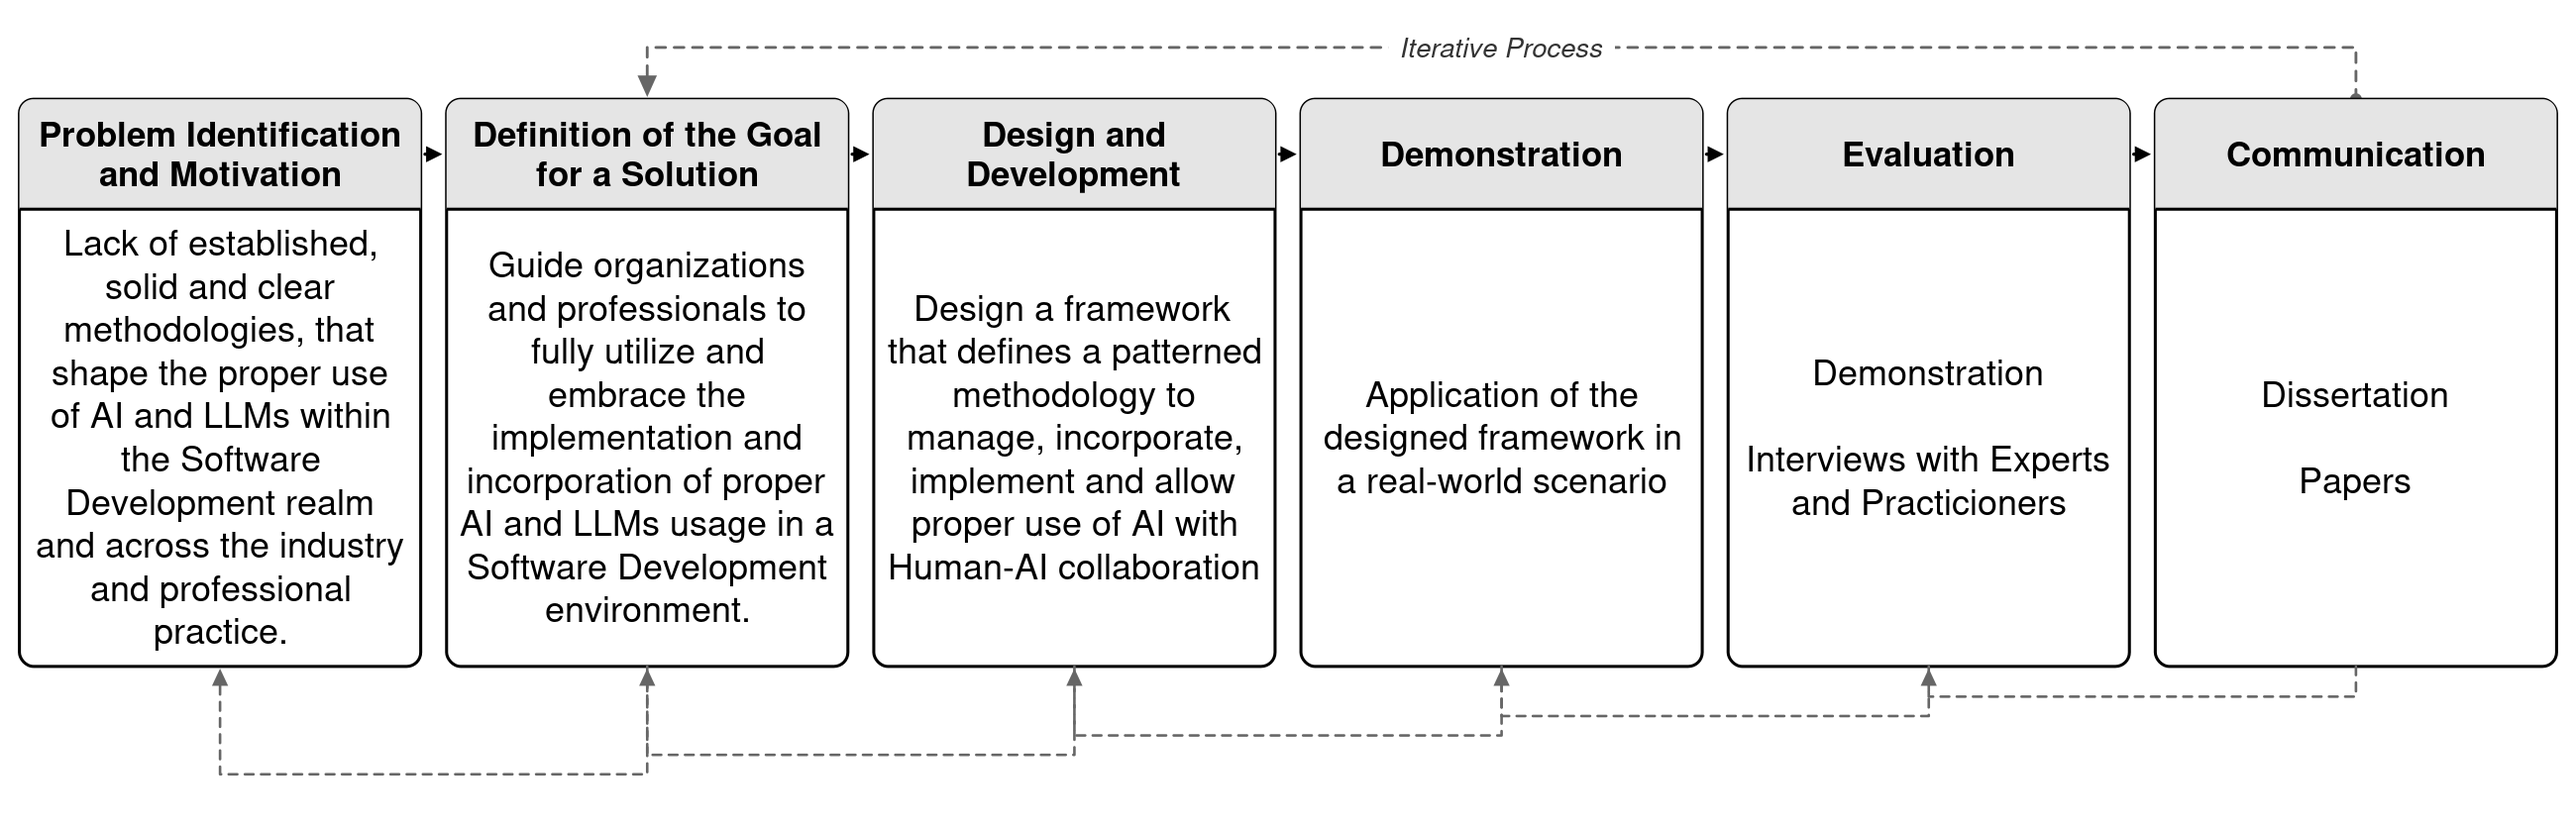
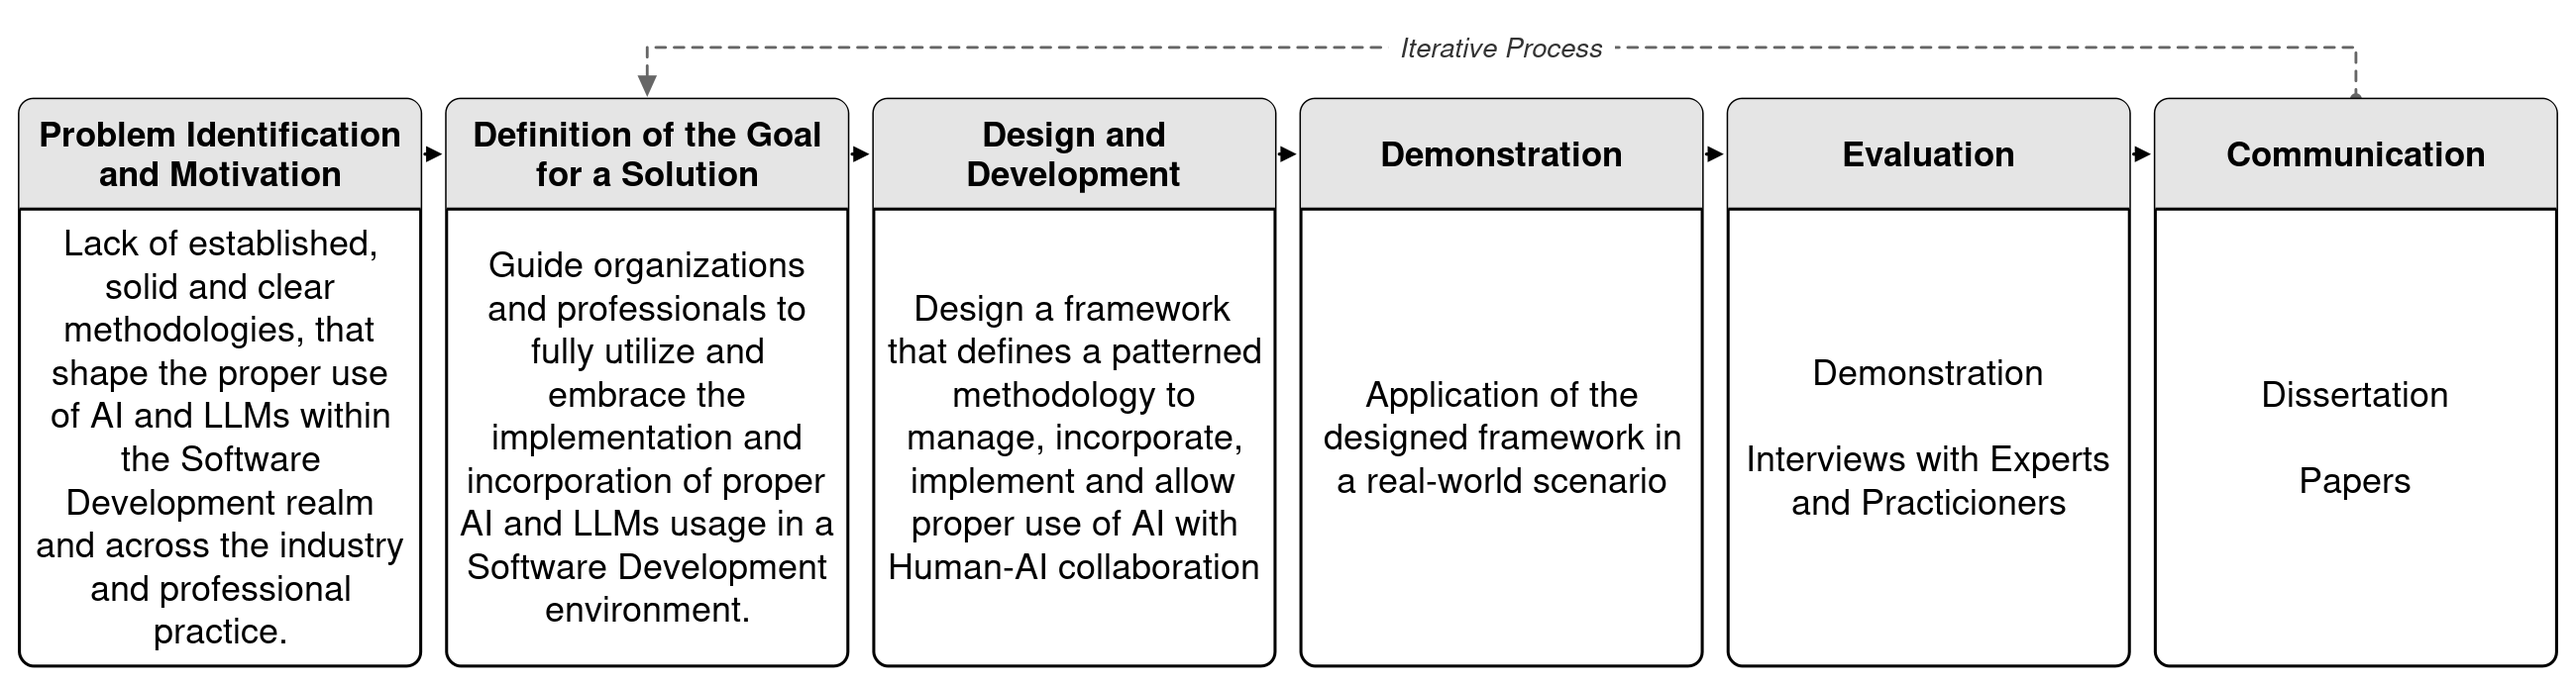
docs(thesis): remove Figure 2.2's confusing bottom loop-back arrows
Tomás: the five per-box dashed connectors below the row were confusing.
Removed them - the 'Iterative Process' rail already above the cards states
the same loop without the redundant per-box lanes underneath. Canvas
shrunk to match (LOOP_H removed).

97 pages, 0 undefined refs/citations.

diff --git a/docs/diagrams/chapter-diagrams.py b/docs/diagrams/chapter-diagrams.py
@@ -209,7 +209,12 @@ def dsrm():
     LH = 40
     HEAD_PAD = 14      # vertical padding around the header text
     RAIL_H = 74        # space above the cards for the "Iterative Process" rail
-    LOOP_H = 132       # space below the cards for the feedback connectors
+    # Per-box feedback connectors below the row (one lane per phase after the
+    # first, stepping down like a staircase) removed 2026-09-14 (Tomás: they
+    # read as confusing) - the "Iterative Process" rail above the cards
+    # already states the loop; five extra dashed lanes crossing under the row
+    # were redundant with it, not a second independent claim.
+    LOOP_H = 0
 
     W = M * 2 + 6 * BW + 5 * GAP
 
@@ -275,17 +280,6 @@ def dsrm():
             if ln:
                 out.append(text(x + BW / 2, by + k * LH, ln, BS, anchor="middle"))
 
-    # ---- feedback connectors below the row, each fully closed inside the canvas
-    bot = top + CARD_H
-    for i in range(5):
-        lane = bot + 28 + (4 - i) * 18
-        out.append(f'<path d="M {cx(i + 1):.1f} {bot:.1f} V {lane:.1f} '
-                   f'H {cx(i):.1f} V {bot + 16:.1f}" fill="none" stroke="{LOOP}" '
-                   f'stroke-width="2.4" stroke-dasharray="8 7" '
-                   f'stroke-linecap="round" stroke-linejoin="round"/>')
-        out.append(f'<polygon points="{cx(i):.1f},{bot + 2:.1f} '
-                   f'{cx(i) - 7.5:.1f},{bot + 18:.1f} '
-                   f'{cx(i) + 7.5:.1f},{bot + 18:.1f}" fill="{LOOP}"/>')
     return svg(W, H, out)
 
 
